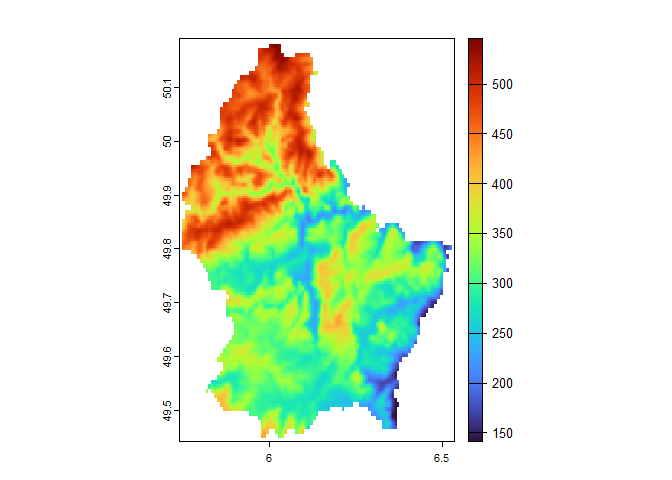
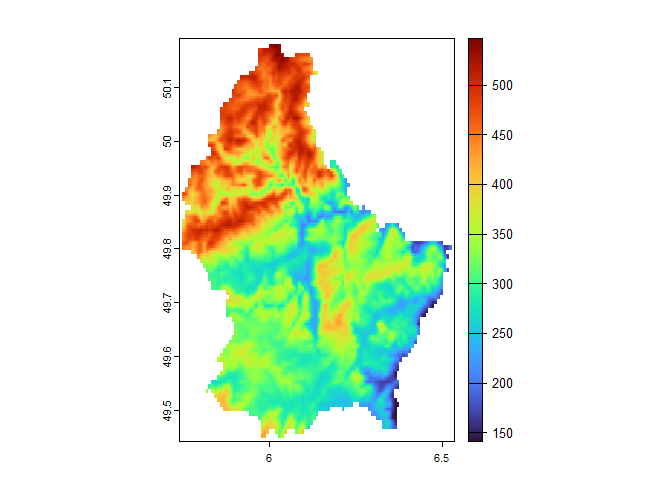
12

diff --git a/README.md b/README.md
@@ -86,7 +86,7 @@ library(viridis)
 
 f <- system.file("ex/elev.tif", package="terra")
 r <- rast(f) 
-a <- disagg(r, 2.5)
+a <- disagg(r, 3)
 data <- resample(r, a, "bilinear")
 plot(data, col=turbo(200), legend = T)
 ```
